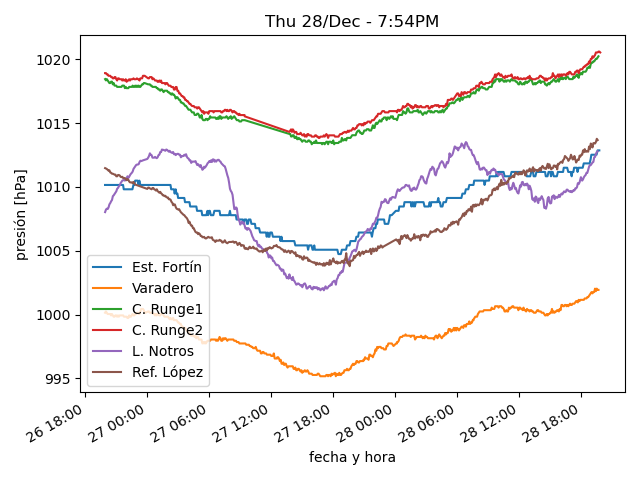
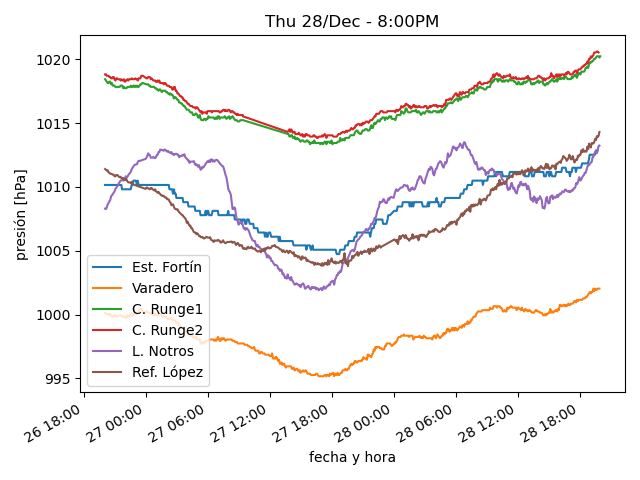
actualiza datos

diff --git a/estaciones/estacion2.html b/estaciones/estacion2.html
@@ -18,32 +18,32 @@
     </tr>
     <tr>
      <td class="stats_data">
-      7:39PM
+      7:54PM
      </td>
     </tr>
     <tr>
      <td class="stats_data">
-      19.4
+      18.9
      </td>
     </tr>
     <tr>
      <td class="stats_data">
-      5.8
+      6.2
      </td>
     </tr>
     <tr>
      <td class="stats_data">
-      41.1
+      43.4
      </td>
     </tr>
     <tr>
      <td class="stats_data">
-      1011.41
+      1011.51
      </td>
     </tr>
     <tr>
      <td class="stats_data">
-      9.3/16.1 S
+      6.4/10.0 WSW
      </td>
     </tr>
     <tr>
@@ -58,7 +58,7 @@
     </tr>
     <tr>
      <td class="stats_data">
-      183.9
+      146.6
      </td>
     </tr>
    </tbody>

diff --git a/estaciones/estacion3.html b/estaciones/estacion3.html
@@ -18,12 +18,12 @@
     </tr>
     <tr>
      <td class="stats_data">
-      7:39PM
+      7:59PM
      </td>
     </tr>
     <tr>
      <td class="stats_data">
-      18.4
+      17.7
      </td>
     </tr>
     <tr>
@@ -33,7 +33,7 @@
     </tr>
     <tr>
      <td class="stats_data">
-      41.1
+      42.7
      </td>
     </tr>
     <tr>
@@ -43,7 +43,7 @@
     </tr>
     <tr>
      <td class="stats_data">
-      8.3/12.3 SSW
+      3.6/5.5 SW
      </td>
     </tr>
     <tr>
@@ -53,12 +53,12 @@
     </tr>
     <tr>
      <td class="stats_data">
-      2.0
+      0.0
      </td>
     </tr>
     <tr>
      <td class="stats_data">
-      173.0
+      71.9
      </td>
     </tr>
    </tbody>

diff --git a/estaciones/estacion6.html b/estaciones/estacion6.html
@@ -18,12 +18,12 @@
     </tr>
     <tr>
      <td class="stats_data">
-      7:35PM
+      7:55PM
      </td>
     </tr>
     <tr>
      <td class="stats_data">
-      10.1
+      9.7
      </td>
     </tr>
     <tr>
@@ -33,17 +33,17 @@
     </tr>
     <tr>
      <td class="stats_data">
-      61.0
+      63.0
      </td>
     </tr>
     <tr>
      <td class="stats_data">
-      1015.07
+      1015.71
      </td>
     </tr>
     <tr>
      <td class="stats_data">
-      8.0/17.7 SSE
+      16.1/43.5 SSW
      </td>
     </tr>
     <tr>
@@ -58,7 +58,7 @@
     </tr>
     <tr>
      <td class="stats_data">
-      898.0
+      900.0
      </td>
     </tr>
    </tbody>

diff --git a/estaciones/estacion5.html b/estaciones/estacion5.html
@@ -18,17 +18,17 @@
     </tr>
     <tr>
      <td class="stats_data">
-      7:35PM
+      7:55PM
      </td>
     </tr>
     <tr>
      <td class="stats_data">
-      19.3
+      18.6
      </td>
     </tr>
     <tr>
      <td class="stats_data">
-      6.8
+      5.9
      </td>
     </tr>
     <tr>
@@ -38,7 +38,7 @@
     </tr>
     <tr>
      <td class="stats_data">
-      1015.37
+      1015.82
      </td>
     </tr>
     <tr>
